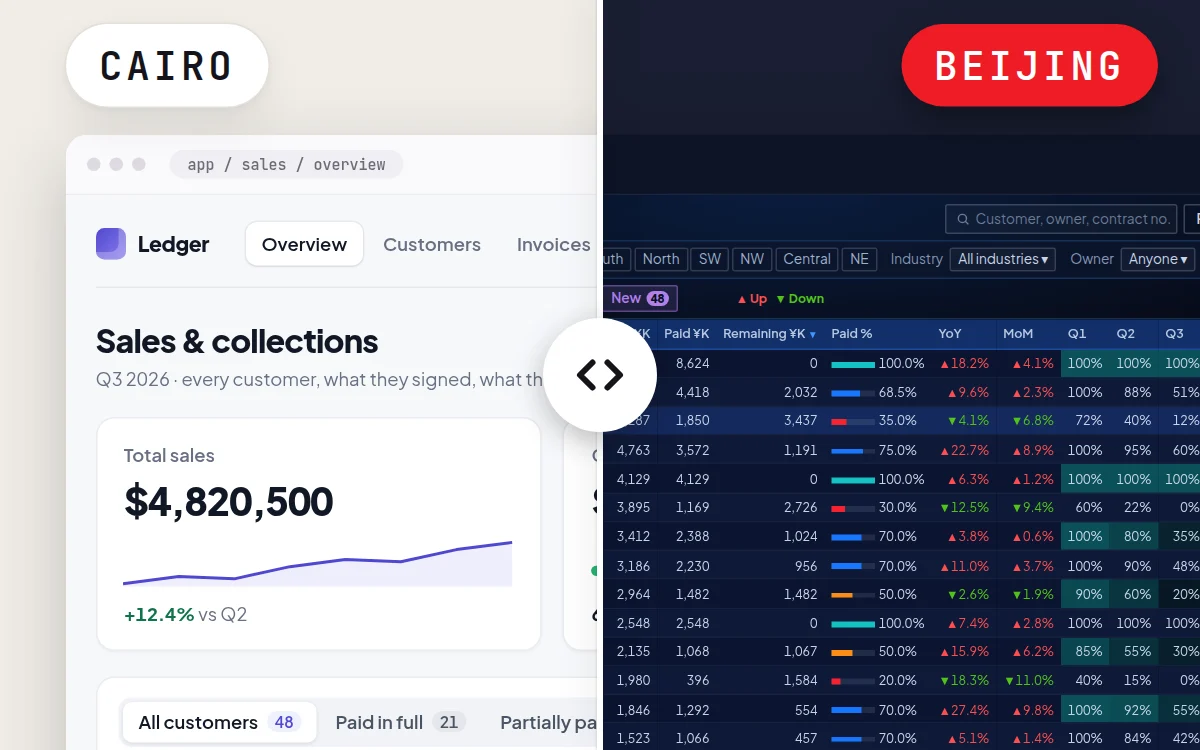
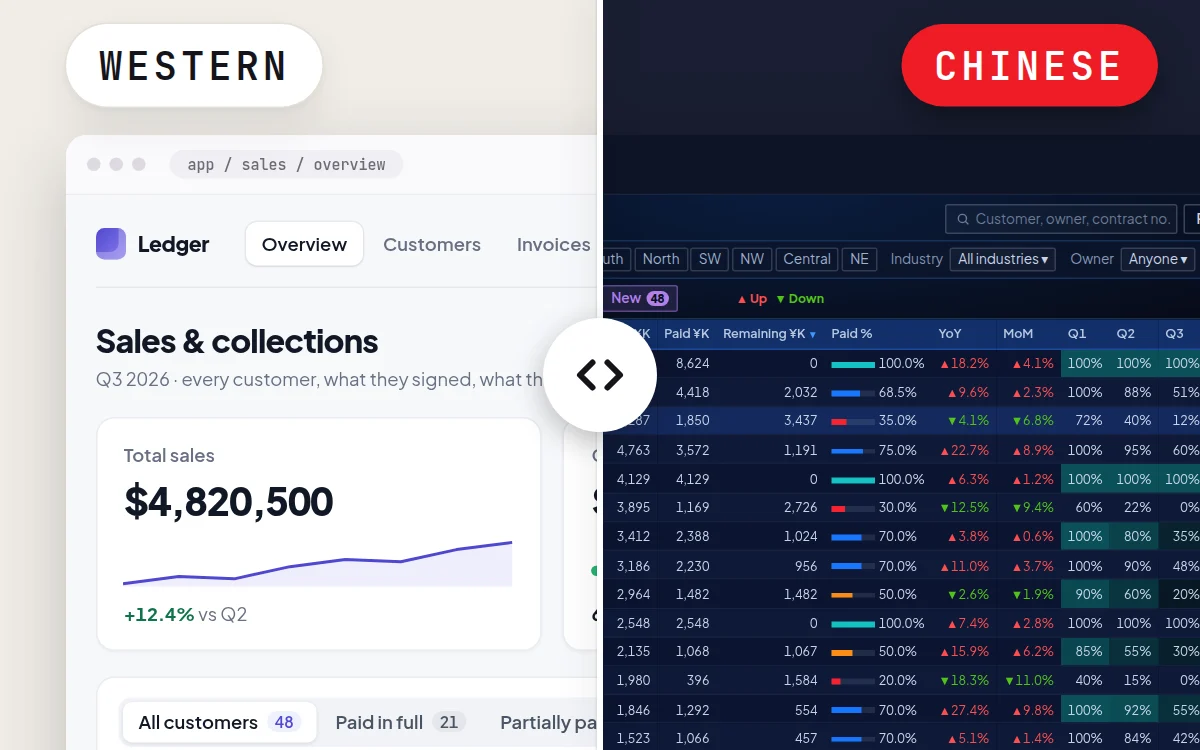
Remove Cairo and Beijing from the localisation card and case study
Claude-Session: https://claude.ai/code/session_0176tfMKjEADNj1mUHmCVHEN

Changed region(s): [[0.0617, 0.0307, 0.2467, 0.1533], [0.7708, 0.0613, 0.9558, 0.1227]]

diff --git a/assets/js/data.js b/assets/js/data.js
@@ -471,10 +471,10 @@ window.WORK = [
 
   card: {
     title: 'Localisation is not translation',
-    sub: 'A perfectly translated dashboard can still feel wrong in Beijing. Here is what actually has to change.',
+    sub: 'A perfectly translated dashboard can still feel wrong in China. Here is what actually has to change.',
     tags: ['Cross-cultural', 'Localisation'],
     thumb: {
-      // the study's two dashboards, split down the middle: Cairo | Beijing.
+      // the study's two dashboards, split down the middle: Western | Chinese.
       // tools/make-thumbs.js draws it from mockups.js; re-run it if they change.
       image: { src: 'assets/img/work/localisation-card.webp', width: 1200, height: 750 },
       tone: 'lime'
@@ -483,7 +483,7 @@ window.WORK = [
 
   title: 'Localisation is not translation',
   standfirst:
-    'A dashboard that feels calm and clear in Cairo can feel empty in Beijing, without a ' +
+    'A dashboard that feels calm and clear in Egypt can feel empty in China, without a ' +
     'single word being mistranslated. I spent five years studying in China, then designed ' +
     'financial dashboards at Huawei, adapting them to Chinese design conventions. This is ' +
     'what had to change, and none of it was the words.',
@@ -491,7 +491,7 @@ window.WORK = [
   meta: {
     'Format':     { value: 'UX argument' },
     'Context':    { value: 'Huawei Technologies', note: 'Financial dashboards · 2024' },
-    'Background': { value: '5 years in China', note: 'B.Sc., Beijing Jiaotong University' },
+    'Background': { value: '5 years in China', note: 'B.Sc. in China' },
     'Reading':    { value: '5 min' }
   },
 
@@ -508,7 +508,7 @@ window.WORK = [
         'They are not. How much a screen is allowed to hold, where the eye starts and what ' +
         'red and green mean are all cultural. My position is simple: <b>a product is not ' +
         'localised until its layout has been designed for the market, not just its ' +
-        'words.</b> If a finance team in Beijing opens a perfectly translated dashboard and ' +
+        'words.</b> If a finance team in China opens a perfectly translated dashboard and ' +
         'still asks where everything is, the localisation has failed.',
 
         'Plenty of designers would disagree. One global design system is cheaper to build ' +
@@ -535,7 +535,7 @@ window.WORK = [
         'dashboard is expected to look in China. <b>All the data on both screens is dummy ' +
         'data</b>: the customers, names and numbers are made up, not real.',
       before: {
-        label: 'Cairo',
+        label: 'Western market',
         kicker: 'Modern Western UI · light · calm',
         screen: 'dash-cairo',
         disclaimer: 'Hi-fi concept for this case study. All customers, names and numbers are ' +
@@ -553,7 +553,7 @@ window.WORK = [
         ]
       },
       after: {
-        label: 'Beijing',
+        label: 'Chinese market',
         kicker: 'Asian-style UI · dark · dense',
         screen: 'dash-beijing',
         disclaimer: 'Hi-fi concept for this case study. All customers, names and numbers are ' +
@@ -587,21 +587,21 @@ window.WORK = [
         'every day, for payments, shopping, travel and public services, put dozens of entry ' +
         'points on one screen, and people learn to scan dense screens fast. A dashboard ' +
         'with eight rows and three big numbers does not read as calm there. It reads as a ' +
-        'tool that is hiding something, or one that is not finished. The Beijing screen ' +
+        'tool that is hiding something, or one that is not finished. The Chinese screen ' +
         'shows 14 customers across more than twenty columns, because that is what its ' +
         'reader expects to take in at a glance.',
 
-        '<b>Hidden filters feel like missing features.</b> The Cairo screen uses progressive ' +
+        '<b>Hidden filters feel like missing features.</b> The Western screen uses progressive ' +
         'disclosure: two dropdowns, and a Filters button for the rest. That keeps the page ' +
-        'quiet for someone asking one question at a time. The Beijing screen puts period, ' +
+        'quiet for someone asking one question at a time. The Chinese screen puts period, ' +
         'region, industry, owner and dates on screen as chips. The filter bar doubles as a ' +
         'summary of what the table is showing, and every change is one click, not a panel.',
 
         '<b>Colour carries meaning before it carries style.</b> In China, red means up. ' +
         'Stock tickers, sales reports and finance screens show gains in red and losses in ' +
         'green, the reverse of the Western convention. A growth figure in green, the obvious ' +
-        'choice in Cairo, reads as a loss in Beijing. Colour also does the grouping that ' +
-        'white space does on the Cairo screen: status, region and credit rating each get ' +
+        'choice in the West, reads as a loss in China. Colour also does the grouping that ' +
+        'white space does on the Western screen: status, region and credit rating each get ' +
         'their own colour, and every tab shows a count.',
 
         '<b>The data is expected to leave the screen.</b> Export Excel sits in the header, ' +
@@ -609,7 +609,7 @@ window.WORK = [
         'time the data was last updated. Numbers on a screen like this usually end up in a ' +
         'report, and the design treats exporting them as the main job, not an edge case.',
 
-        'None of this would come back from a translator. Every word on the Cairo screen ' +
+        'None of this would come back from a translator. Every word on the Western screen ' +
         'could be rendered perfectly in Chinese, and it would still feel like a product ' +
         'built for somewhere else.'
       ]

diff --git a/assets/js/mockups.js b/assets/js/mockups.js
@@ -155,19 +155,19 @@
     '</svg>';
   }
 
-  /* ---- Cairo: calm, three numbers, one wide table ------------------------ */
+  /* ---- Western: calm, three numbers, one wide table ------------------------ */
 
   // name, sector, contract, paid, last payment, next due, overdue?, invoices,
   // avg days to pay, [Q1, Q2, Q3 collected %], YoY %, share of sales %, region, owner
   var DB_ROWS = [
-    ['Nile Logistics',    'Logistics',     482000, 482000, 'Sep 18', '—',      false, 12, 21, [100, 100, 100], 18.2, 10.0, 'Cairo',       'Sara M.'],
+    ['Nile Logistics',    'Logistics',     482000, 482000, 'Sep 18', '—',      false, 12, 21, [100, 100, 100], 18.2, 10.0, 'Suez',        'Sara M.'],
     ['Delta Foods',       'FMCG',          365400, 248470, 'Sep 12', 'Oct 05', false,  9, 34, [100,  88,  51],  9.6,  7.6, 'Mansoura',    'Omar K.'],
     ['Pyramid Textiles',  'Manufacturing', 298000, 104300, 'Aug 02', 'Sep 02', true,   7, 58, [ 72,  40,  12], -4.1,  6.2, 'Giza',        'Sara M.'],
     ['Red Sea Resorts',   'Hospitality',   256750, 192560, 'Sep 20', 'Oct 20', false,  6, 27, [100,  95,  60], 22.7,  5.3, 'Hurghada',    'Nour A.'],
     ['Alexandria Pharma', 'Healthcare',    221900, 221900, 'Sep 09', '—',      false,  8, 18, [100, 100, 100],  6.3,  4.6, 'Alexandria',  'Omar K.'],
     ['Sinai Energy',      'Energy',        198200,  59460, 'Jul 14', 'Aug 30', true,   5, 66, [ 60,  22,   0],-12.5,  4.1, 'Sharm',       'Nour A.'],
     ['Canal Build Co.',   'Construction',  176500, 123550, 'Sep 15', 'Oct 12', false,  4, 39, [100,  80,  35],  3.8,  3.7, 'Ismailia',    'Sara M.'],
-    ['Oasis Retail',      'Retail',        142300,  99610, 'Sep 21', 'Oct 01', false, 10, 30, [100,  90,  48], 11.0,  3.0, 'Cairo',       'Omar K.']
+    ['Oasis Retail',      'Retail',        142300,  99610, 'Sep 21', 'Oct 01', false, 10, 30, [100,  90,  48], 11.0,  3.0, 'Luxor',       'Omar K.']
   ];
 
   var DB_TINTS = ['#EDEAFE', '#E7F6EC', '#FDEEE6', '#E6F0FD', '#F3EAFB', '#FDF3DC', '#E9F4F4', '#FBE9EF'];
@@ -274,7 +274,7 @@
     );
   }
 
-  /* ---- Beijing: dark, dense, colour-coded, the same table ---------------- */
+  /* ---- Chinese: dark, dense, colour-coded, the same table ---------------- */
 
   // customer, region, industry, contract ¥K, paid ¥K, YoY %, MoM %, [Q1, Q2, Q3 collected %],
   // invoices, days overdue, avg days to pay, last payment, next due, credit, status, owner

diff --git a/tools/make-thumbs.js b/tools/make-thumbs.js
@@ -2,7 +2,7 @@
 /**
  * Renders the card thumbnails that are pictures of the site's own content:
  *
- *   assets/img/work/localisation-card.webp   the Cairo and Beijing dashboards
+ *   assets/img/work/localisation-card.webp   the Western and Chinese dashboards
  *                                            from mockups.js, split down the middle
  *   assets/img/work/vibe-coding-card.webp    the projects listed in data.js
  *                                            (Vibe Coding), as browser windows
@@ -118,8 +118,8 @@ const HTML = `<!DOCTYPE html>
     <div class="half half--beijing"><div class="dash" id="beijing"></div></div>
     <div class="split"></div>
     <div class="knob"><svg viewBox="0 0 24 24"><path d="m9 7-5 5 5 5M15 7l5 5-5 5"/></svg></div>
-    <span class="place place--cairo">Cairo</span>
-    <span class="place place--beijing">Beijing</span>
+    <span class="place place--cairo">Western</span>
+    <span class="place place--beijing">Chinese</span>
   </div>
 
   <div class="scene" id="vibe"></div>
